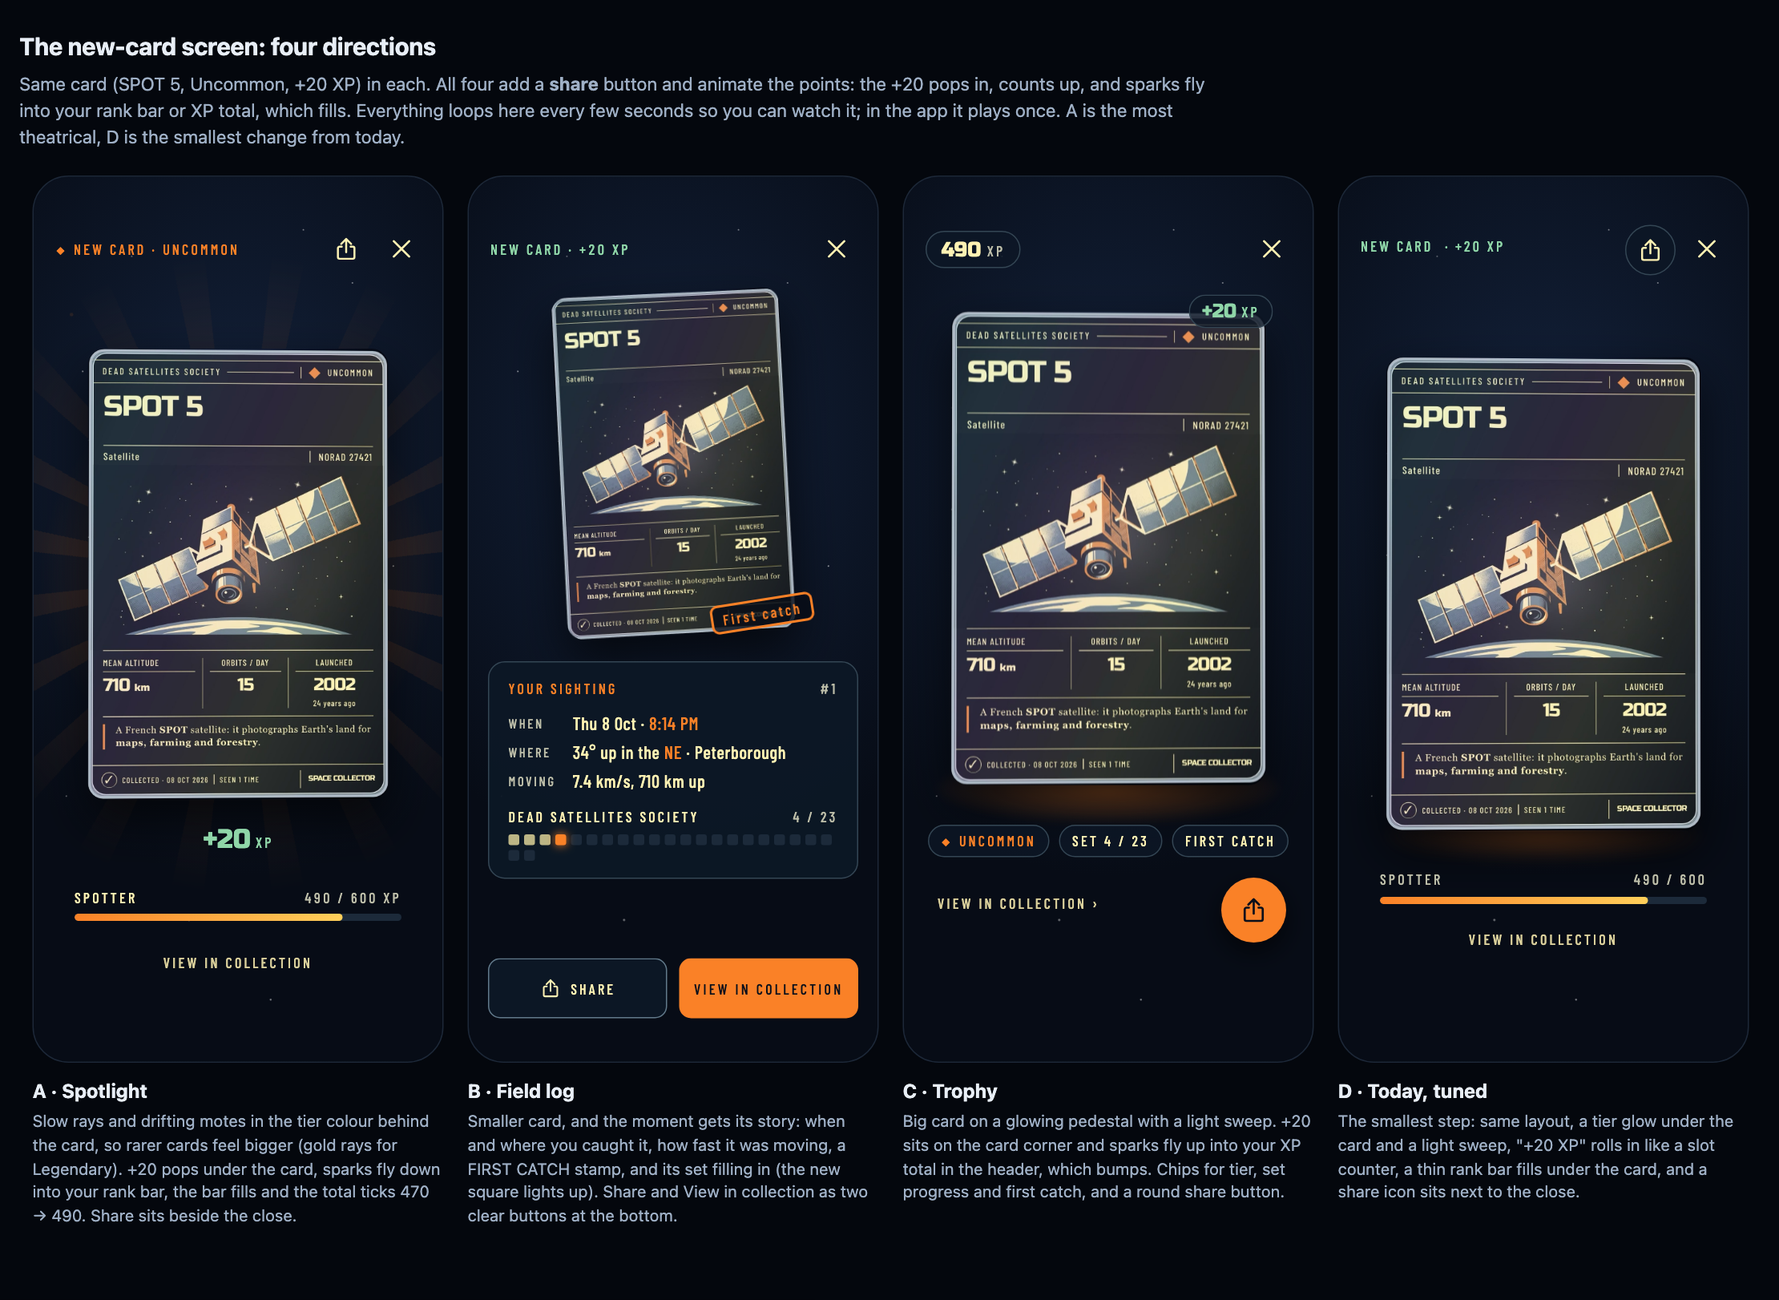
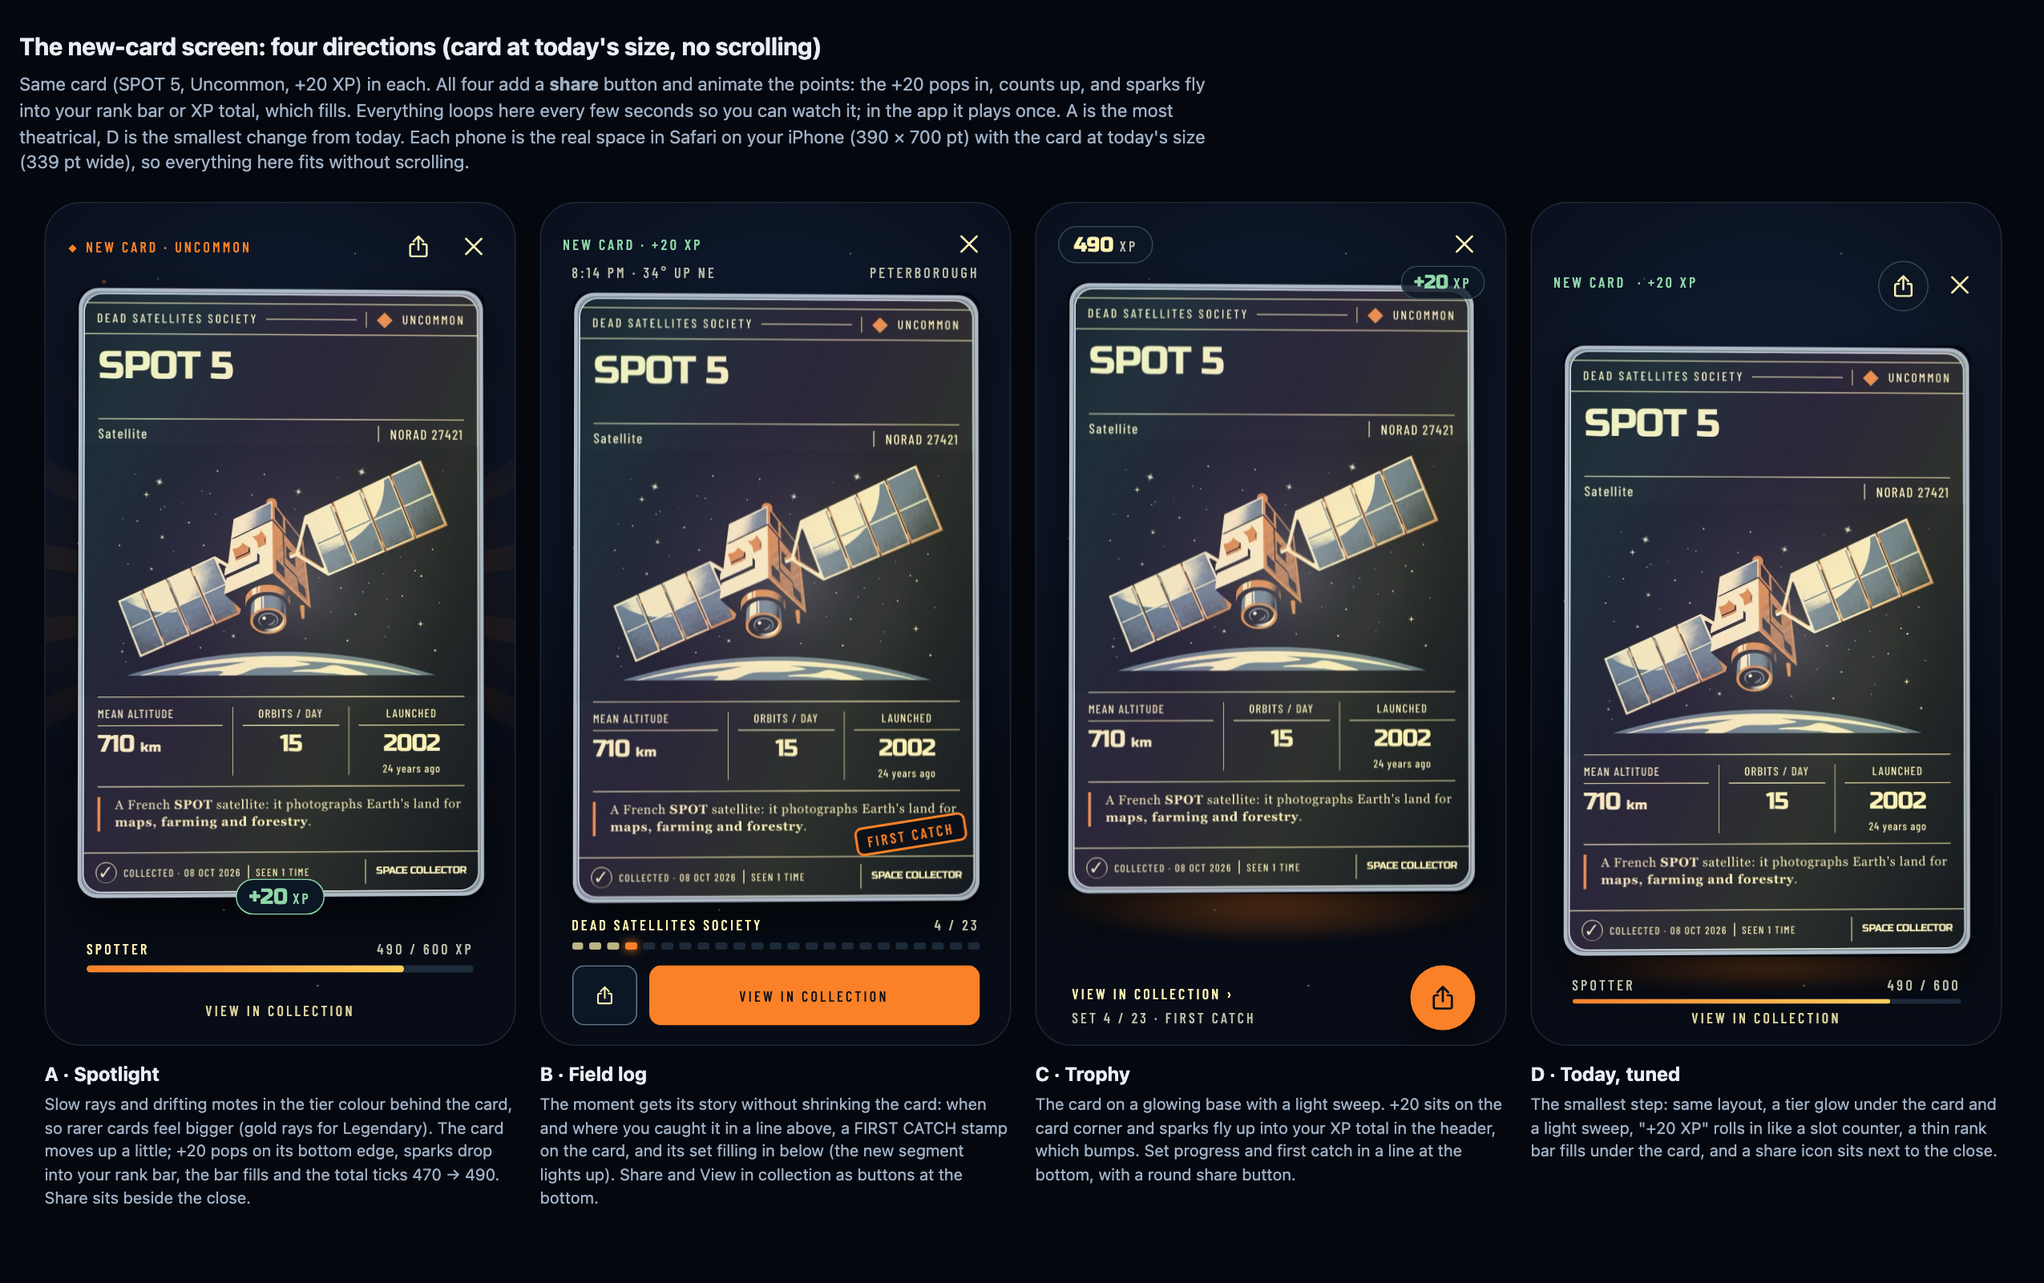
Design: new-card directions at today's card size, no scrolling

diff --git a/design/reveal-options.html b/design/reveal-options.html
@@ -8,8 +8,8 @@
   body { margin: 0; background: #04070d; color: #e8eef6; font: 15px/1.45 -apple-system, system-ui, sans-serif; padding: 24px 16px 60px; }
   h1.t { font-size: 20px; margin: 0 0 6px; } .intro { color: #9fb0c6; margin: 0 0 22px; max-width: 1000px; }
   .row { display: flex; flex-wrap: wrap; gap: 22px; justify-content: center; }
-  .cell { width: 340px; max-width: 100%; } .cell h2 { font-size: 16px; margin: 12px 0 4px; } .cell p { color: #9fb0c6; font-size: 13.5px; margin: 0; }
-  .phone { position: relative; width: 340px; height: 736px; max-width: 100%; border-radius: 30px; overflow: hidden; border: 1px solid #1d2838;
+  .cell { width: 390px; max-width: 100%; } .cell h2 { font-size: 16px; margin: 12px 0 4px; } .cell p { color: #9fb0c6; font-size: 13.5px; margin: 0; }
+  .phone { position: relative; width: 390px; height: 700px; max-width: 100%; border-radius: 30px; overflow: hidden; border: 1px solid #1d2838;
     background: radial-gradient(120% 70% at 50% 30%, #13213a, #070c16 70%); }
   .stars { position: absolute; inset: 0; background:
     radial-gradient(1px 1px at 12% 22%, #fffa, transparent), radial-gradient(1px 1px at 78% 12%, #fff9, transparent), radial-gradient(1.4px 1.4px at 38% 84%, #fff8, transparent),
@@ -44,10 +44,10 @@
   .count { font-variant-numeric: tabular-nums; }
 
   /* A · Spotlight */
-  .rays { position: absolute; left: 50%; top: 330px; width: 900px; height: 900px; margin: -450px 0 0 -450px; border-radius: 50%;
+  .rays { position: absolute; left: 50%; width: 900px; height: 900px; margin: -450px 0 0 -450px; border-radius: 50%;
     background: repeating-conic-gradient(from 0deg, color-mix(in srgb, var(--tier) 22%, transparent) 0 6deg, transparent 6deg 18deg);
     -webkit-mask: radial-gradient(circle, #000 0, #0008 18%, transparent 42%); mask: radial-gradient(circle, #000 0, #0008 18%, transparent 42%); animation: spin 40s linear infinite; }
-  .glow { position: absolute; left: 50%; top: 330px; width: 360px; height: 360px; margin: -180px 0 0 -180px; border-radius: 50%; background: radial-gradient(circle, color-mix(in srgb, var(--tier) 30%, transparent), transparent 65%); }
+  .glow { position: absolute; left: 50%; width: 460px; height: 460px; margin: -230px 0 0 -230px; border-radius: 50%; background: radial-gradient(circle, color-mix(in srgb, var(--tier) 30%, transparent), transparent 65%); }
   @keyframes spin { to { transform: rotate(360deg); } }
   .dust { position: absolute; width: 3px; height: 3px; border-radius: 50%; background: var(--tier); opacity: 0; animation: rise var(--t) var(--d) linear infinite; }
   @keyframes rise { 0% { opacity: 0; transform: translateY(0); } 20% { opacity: .8; } 100% { opacity: 0; transform: translateY(-120px); } }
@@ -61,7 +61,7 @@
   .slip dt { color: var(--muted); font-size: 11px; letter-spacing: .16em; text-transform: uppercase; padding-top: 3px; }
   .slip dd { margin: 0; color: var(--ink); }
   .slip dd b { color: var(--orange); font-weight: 500; }
-  .first { position: absolute; transform: rotate(-9deg); border: 2px solid var(--orange); color: var(--orange); border-radius: 6px; padding: 4px 8px; font: 500 12px/1 'SC Label', sans-serif; letter-spacing: .16em; background: #070c16cc; }
+  .first { position: absolute; transform: rotate(-9deg); text-transform: uppercase; border: 2px solid var(--orange); color: var(--orange); border-radius: 6px; padding: 4px 8px; font: 500 12px/1 'SC Label', sans-serif; letter-spacing: .16em; background: #070c16cc; }
   .go .first { animation: stamp .45s .5s cubic-bezier(.2,1.5,.4,1) both; }
   @keyframes stamp { from { transform: rotate(-9deg) scale(2.2); opacity: 0; } to { transform: rotate(-9deg) scale(1); opacity: 1; } }
   .setdots { display: flex; gap: 4px; flex-wrap: wrap; margin-top: 8px; }
@@ -75,7 +75,7 @@
   .btn svg { width: 18px; height: 18px; }
 
   /* C · Trophy */
-  .pedestal { position: absolute; left: 50%; width: 300px; height: 60px; margin-left: -150px; border-radius: 50%;
+  .pedestal { position: absolute; left: 50%; width: 380px; height: 70px; margin-left: -190px; border-radius: 50%;
     background: radial-gradient(ellipse, color-mix(in srgb, var(--tier) 55%, transparent), transparent 70%); filter: blur(4px); animation: breathe 3s ease-in-out infinite; }
   @keyframes breathe { 50% { opacity: .6; transform: scaleX(.92); } }
   .sweep { position: absolute; overflow: hidden; border-radius: 14px; pointer-events: none; }
@@ -96,64 +96,68 @@
   .roll span { display: block; }
   .go .roll span { animation: roll 1s .3s cubic-bezier(.3,1.4,.5,1) both; }
   @keyframes roll { from { transform: translateY(-88px); } to { transform: translateY(0); } }
-  .underglow { position: absolute; left: 50%; width: 280px; height: 40px; margin-left: -140px; border-radius: 50%; background: radial-gradient(ellipse, color-mix(in srgb, var(--tier) 45%, transparent), transparent 70%); filter: blur(6px); }
+  .underglow { position: absolute; left: 50%; width: 360px; height: 44px; margin-left: -180px; border-radius: 50%; background: radial-gradient(ellipse, color-mix(in srgb, var(--tier) 45%, transparent), transparent 70%); filter: blur(6px); }
   @media (prefers-reduced-motion: reduce) { .rays, .dust, .pedestal, .sweep::after { animation: none !important; } }
 </style></head><body>
-<h1 class="t">The new-card screen: four directions</h1>
-<p class="intro">Same card (SPOT 5, Uncommon, +20 XP) in each. All four add a <b>share</b> button and animate the points: the +20 pops in, counts up, and sparks fly into your rank bar or XP total, which fills. Everything loops here every few seconds so you can watch it; in the app it plays once. A is the most theatrical, D is the smallest change from today.</p>
+<h1 class="t">The new-card screen: four directions (card at today's size, no scrolling)</h1>
+<p class="intro">Same card (SPOT 5, Uncommon, +20 XP) in each. All four add a <b>share</b> button and animate the points: the +20 pops in, counts up, and sparks fly into your rank bar or XP total, which fills. Everything loops here every few seconds so you can watch it; in the app it plays once. A is the most theatrical, D is the smallest change from today. Each phone is the real space in Safari on your iPhone (390 × 700 pt) with the card at today's size (339 pt wide), so everything here fits without scrolling.</p>
 <div class="row" id="b"></div>
 <script>
 const SHARE = '<svg viewBox="0 0 24 24" fill="none" stroke="currentColor" stroke-width="1.8" stroke-linecap="round" stroke-linejoin="round"><path d="M12 3v12M7.5 7.5 12 3l4.5 4.5"/><path d="M8 10H6a1.5 1.5 0 0 0-1.5 1.5v8A1.5 1.5 0 0 0 6 21h12a1.5 1.5 0 0 0 1.5-1.5v-8A1.5 1.5 0 0 0 18 10h-2"/></svg>';
 const X = '<svg viewBox="0 0 24 24" fill="none" stroke="currentColor" stroke-width="2" stroke-linecap="round"><path d="M5 5l14 14M19 5 5 19"/></svg>';
 const img = (x, y, w) => `<img class="card" src="reveal-card-spot5.jpg" alt="" style="left:${x}px;top:${y}px;width:${w}px">`;
 const sparks = (x, y, tx, ty, n = 7) => Array.from({ length: n }, (_, i) => `<i class="spark" style="left:${x + (i - n / 2) * 4}px;top:${y + (i % 2) * 6}px;--tx:${tx - (i - n / 2) * 4}px;--ty:${ty}px;--d:${(0.75 + i * 0.05).toFixed(2)}s"></i>`).join('');
-const dust = Array.from({ length: 14 }, (_, i) => `<i class="dust" style="left:${30 + (i * 37) % 280}px;top:${220 + (i * 53) % 260}px;--t:${3 + (i % 4)}s;--d:${(i * 0.37).toFixed(2)}s"></i>`).join('');
-const cw = 250, ch = Math.round(cw * 1533 / 1021);
+const dust = Array.from({ length: 16 }, (_, i) => `<i class="dust" style="left:${10 + (i * 37) % 370}px;top:${80 + (i * 53) % 520}px;--t:${3 + (i % 4)}s;--d:${(i * 0.37).toFixed(2)}s"></i>`).join('');
+// Today's card size on a 390-pt-wide iPhone in Safari (from the screenshot): 339 × 509, and the page is ~700 tall.
+const W = 390, H = 700, cw = 339, ch = Math.round(cw * 1533 / 1021), cx = (W - cw) / 2;
+const sweep = (y) => `<div class="sweep" style="left:${cx}px;top:${y}px;width:${cw}px;height:${ch}px"></div>`;
 
-const A = `<div class="stars"></div><div class="rays"></div><div class="glow"></div>${dust}
-  <div class="top"><span class="lab" style="color:var(--tier)">◆ New card · Uncommon</span><span class="icons"><span class="ic">${SHARE}</span><span class="ic">${X}</span></span></div>
-  ${img((340 - cw) / 2, 330 - ch / 2, cw)}
-  <div style="position:absolute;left:0;right:0;top:${330 + ch / 2 + 22}px;text-align:center"><span class="xp xp-pop"><b>+<span class="count" data-to="20">0</span></b><span class="lab" style="color:var(--green)">XP</span></span></div>
-  ${sparks(170, 330 + ch / 2 + 36, 0, 56)}
-  <div class="rank" style="top:${330 + ch / 2 + 74}px"><div class="r1"><span class="lab" style="color:var(--ink)">Spotter</span><span class="lab" style="color:var(--muted)"><span class="count" data-from="470" data-to="490" data-delay="900">470</span> / 600 XP</span></div><div class="bar" style="--from:78%;--to:82%"><i></i></div></div>
-  <div class="link lab" style="top:${330 + ch / 2 + 128}px">View in collection</div>`;
+// A · Spotlight: card nudged up; +20 straddles the card's bottom edge and its sparks drop into the rank bar.
+const ay = 70;
+const A = `<div class="stars"></div><div class="rays" style="top:${ay + ch / 2}px"></div><div class="glow" style="top:${ay + ch / 2}px"></div>${dust}
+  <div class="top" style="top:16px"><span class="lab" style="color:var(--tier)">◆ New card · Uncommon</span><span class="icons"><span class="ic">${SHARE}</span><span class="ic">${X}</span></span></div>
+  ${img(cx, ay, cw)}
+  <div style="position:absolute;left:0;right:0;top:${ay + ch - 17}px;text-align:center"><span class="pill xp-pop" style="background:#0c1725;border-color:var(--green)"><span class="xp"><b style="font-size:18px">+<span class="count" data-to="20">0</span></b><span class="lab" style="color:var(--green)">XP</span></span></span></div>
+  ${sparks(W / 2, ay + ch + 14, 0, 22)}
+  <div class="rank" style="top:${ay + ch + 34}px"><div class="r1"><span class="lab" style="color:var(--ink)">Spotter</span><span class="lab" style="color:var(--muted)"><span class="count" data-from="470" data-to="490" data-delay="900">470</span> / 600 XP</span></div><div class="bar" style="--from:78%;--to:82%"><i></i></div></div>
+  <div class="link lab" style="top:${H - 36}px">View in collection</div>`;
 
-const bw = 190, bh = Math.round(bw * 1533 / 1021);
+// B · Field log: the sighting moves into a strip above the card; set progress and two buttons below.
+const by = 74;
 const B = `<div class="stars"></div>
-  <div class="top"><span class="lab" style="color:var(--green)">New card · <span class="xp xp-pop" style="display:inline"><span class="count" data-to="20" data-prefix="+">+0</span> XP</span></span><span class="icons"><span class="ic">${X}</span></span></div>
-  <img class="card" src="reveal-card-spot5.jpg" alt="" style="left:${(340 - bw) / 2}px;top:96px;width:${bw}px;transform:rotate(-3deg)">
-  <span class="first" style="left:${(340 + bw) / 2 - 64}px;top:${96 + bh - 30}px">First catch</span>
-  <div class="slip" style="top:${96 + bh + 22}px">
-    <div class="hd"><span class="lab" style="color:var(--orange)">Your sighting</span><span class="lab" style="color:var(--muted)">#1</span></div>
-    <dl><dt>When</dt><dd>Thu 8 Oct · <b>8:14 PM</b></dd><dt>Where</dt><dd>34° up in the <b>NE</b> · Peterborough</dd><dt>Moving</dt><dd>7.4 km/s, 710 km up</dd></dl>
-    <div class="lab" style="margin-top:14px;display:flex;justify-content:space-between"><span style="color:var(--ink)">Dead Satellites Society</span><span style="color:var(--muted)">4 / 23</span></div>
-    <div class="setdots">${Array.from({ length: 23 }, (_, i) => `<i class="${i < 3 ? 'on' : i === 3 ? 'new' : ''}"></i>`).join('')}</div>
-  </div>
-  <div class="btns" style="bottom:36px"><span class="btn lab">${SHARE}Share</span><span class="btn pri lab">View in collection</span></div>`;
+  <div class="top" style="top:14px"><span class="lab" style="color:var(--green)">New card · <span class="xp xp-pop" style="display:inline;color:var(--green)"><span class="count" data-to="20" data-prefix="+">+0</span> XP</span></span><span class="icons"><span class="ic">${X}</span></span></div>
+  <div class="lab" style="position:absolute;left:${cx}px;right:${cx}px;top:50px;display:flex;justify-content:space-between;color:var(--muted)"><span>8:14 PM · 34° up NE</span><span>Peterborough</span></div>
+  ${img(cx, by, cw)}
+  <span class="first" style="left:${cx + cw - 104}px;top:${by + ch - 70}px">First catch</span>
+  <div class="lab" style="position:absolute;left:${cx}px;right:${cx}px;top:${by + ch + 10}px;display:flex;justify-content:space-between"><span style="color:var(--ink)">Dead Satellites Society</span><span style="color:var(--muted)">4 / 23</span></div>
+  <div class="setdots" style="position:absolute;left:${cx}px;right:${cx}px;top:${by + ch + 24}px;flex-wrap:nowrap;gap:5px">${Array.from({ length: 23 }, (_, i) => `<i style="flex:1;height:6px;border-radius:2px" class="${i < 3 ? 'on' : i === 3 ? 'new' : ''}"></i>`).join('')}</div>
+  <div class="btns" style="left:${cx}px;right:${cx}px;bottom:16px"><span class="btn lab" style="flex:none;width:52px">${SHARE}</span><span class="btn pri lab">View in collection</span></div>`;
 
-const cw2 = 262, ch2 = Math.round(cw2 * 1533 / 1021), cy = 112;
+// C · Trophy: XP total in the header; +20 badge on the card corner flies up into it; glowing base under the card.
+const cy = 66;
 const C = `<div class="stars"></div>
-  <div class="top"><span class="xpcounter"><b class="count" data-from="470" data-to="490" data-delay="1600">470</b><span class="lab" style="color:var(--muted)">XP</span></span><span class="icons"><span class="ic">${X}</span></span></div>
-  <div class="pedestal" style="top:${cy + ch2 - 26}px"></div>
-  ${img((340 - cw2) / 2, cy, cw2)}<div class="sweep" style="left:${(340 - cw2) / 2}px;top:${cy}px;width:${cw2}px;height:${ch2}px"></div>
-  <div style="position:absolute;right:${(340 - cw2) / 2 - 6}px;top:${cy - 14}px" class="pill xp-pop"><span class="xp"><b style="font-size:16px">+<span class="count" data-to="20">0</span></b><span class="lab" style="color:var(--green)">XP</span></span></div>
-  ${sparks(250, cy - 6, -180, -46, 6)}
-  <div class="chips" style="top:${cy + ch2 + 34}px"><span class="pill lab" style="color:var(--tier)">◆ Uncommon</span><span class="pill lab" style="color:var(--ink)">Set 4 / 23</span><span class="pill lab" style="color:var(--ink)">First catch</span></div>
-  <div class="link lab" style="top:${cy + ch2 + 92}px;text-align:left;left:28px">View in collection ›</div>
-  <span class="fab" style="right:22px;top:${cy + ch2 + 78}px">${SHARE}</span>`;
+  <div class="top" style="top:14px"><span class="xpcounter"><b class="count" data-from="470" data-to="490" data-delay="1600">470</b><span class="lab" style="color:var(--muted)">XP</span></span><span class="icons"><span class="ic">${X}</span></span></div>
+  <div class="pedestal" style="top:${cy + ch - 30}px"></div>
+  ${img(cx, cy, cw)}${sweep(cy)}
+  <div style="position:absolute;right:${cx - 8}px;top:${cy - 14}px" class="pill xp-pop"><span class="xp"><b style="font-size:16px">+<span class="count" data-to="20">0</span></b><span class="lab" style="color:var(--green)">XP</span></span></div>
+  ${sparks(W - cx - 30, cy - 6, -(W - cx - 30) + 50, -40, 6)}
+  <div class="lab" style="position:absolute;left:${cx + 4}px;top:${H - 50}px;color:var(--ink)">View in collection ›</div>
+  <div class="lab" style="position:absolute;left:${cx + 4}px;top:${H - 30}px;color:var(--muted)">Set 4 / 23 · First catch</div>
+  <span class="fab" style="right:${cx}px;top:${H - 66}px">${SHARE}</span>`;
 
-const dy = 150;
+// D · Today, tuned: card exactly where it is now; header and a thin rank bar do the work.
+const dy = 118;
 const D = `<div class="stars"></div>
-  <div class="top"><span class="eyeline lab"><span style="color:var(--green)">New card</span><span class="xp xp-pop" style="color:var(--green)">· <span class="roll"><span>+20 XP</span></span></span></span><span class="icons"><span class="ic ring">${SHARE}</span><span class="ic">${X}</span></span></div>
-  <div class="underglow" style="top:${dy + ch2 - 14}px"></div>
-  ${img((340 - cw2) / 2, dy, cw2)}<div class="sweep" style="left:${(340 - cw2) / 2}px;top:${dy}px;width:${cw2}px;height:${ch2}px"></div>
-  <div class="rank" style="top:${dy + ch2 + 34}px"><div class="r1"><span class="lab" style="color:var(--muted)">Spotter</span><span class="lab" style="color:var(--muted)"><span class="count" data-from="470" data-to="490" data-delay="900">470</span> / 600</span></div><div class="bar" style="--from:78%;--to:82%"><i></i></div></div>
-  <div class="link lab" style="top:${dy + ch2 + 84}px">View in collection</div>`;
+  <div class="top" style="top:48px"><span class="eyeline lab"><span style="color:var(--green)">New card</span><span class="xp xp-pop" style="color:var(--green)">· <span class="roll"><span>+20 XP</span></span></span></span><span class="icons"><span class="ic ring">${SHARE}</span><span class="ic">${X}</span></span></div>
+  <div class="underglow" style="top:${dy + ch - 16}px"></div>
+  ${img(cx, dy, cw)}${sweep(dy)}
+  <div class="rank" style="top:${dy + ch + 16}px;left:${cx + 8}px;right:${cx + 8}px"><div class="r1" style="margin-bottom:5px"><span class="lab" style="color:var(--muted)">Spotter</span><span class="lab" style="color:var(--muted)"><span class="count" data-from="470" data-to="490" data-delay="900">470</span> / 600</span></div><div class="bar" style="--from:78%;--to:82%;height:4px"><i></i></div></div>
+  <div class="link lab" style="top:${H - 30}px">View in collection</div>`;
 
 const cells = [
-  ['A · Spotlight', 'Slow rays and drifting motes in the tier colour behind the card, so rarer cards feel bigger (gold rays for Legendary). +20 pops under the card, sparks fly down into your rank bar, the bar fills and the total ticks 470 → 490. Share sits beside the close.', A],
-  ['B · Field log', 'Smaller card, and the moment gets its story: when and where you caught it, how fast it was moving, a FIRST CATCH stamp, and its set filling in (the new square lights up). Share and View in collection as two clear buttons at the bottom.', B],
-  ['C · Trophy', 'Big card on a glowing pedestal with a light sweep. +20 sits on the card corner and sparks fly up into your XP total in the header, which bumps. Chips for tier, set progress and first catch, and a round share button.', C],
+  ['A · Spotlight', 'Slow rays and drifting motes in the tier colour behind the card, so rarer cards feel bigger (gold rays for Legendary). The card moves up a little; +20 pops on its bottom edge, sparks drop into your rank bar, the bar fills and the total ticks 470 → 490. Share sits beside the close.', A],
+  ['B · Field log', 'The moment gets its story without shrinking the card: when and where you caught it in a line above, a FIRST CATCH stamp on the card, and its set filling in below (the new segment lights up). Share and View in collection as buttons at the bottom.', B],
+  ['C · Trophy', 'The card on a glowing base with a light sweep. +20 sits on the card corner and sparks fly up into your XP total in the header, which bumps. Set progress and first catch in a line at the bottom, with a round share button.', C],
   ['D · Today, tuned', 'The smallest step: same layout, a tier glow under the card and a light sweep, "+20 XP" rolls in like a slot counter, a thin rank bar fills under the card, and a share icon sits next to the close.', D],
 ];
 document.getElementById('b').innerHTML = cells.map(([t, d, f]) => `<div class="cell"><div class="phone">${f}</div><h2>${t}</h2><p>${d}</p></div>`).join('');
